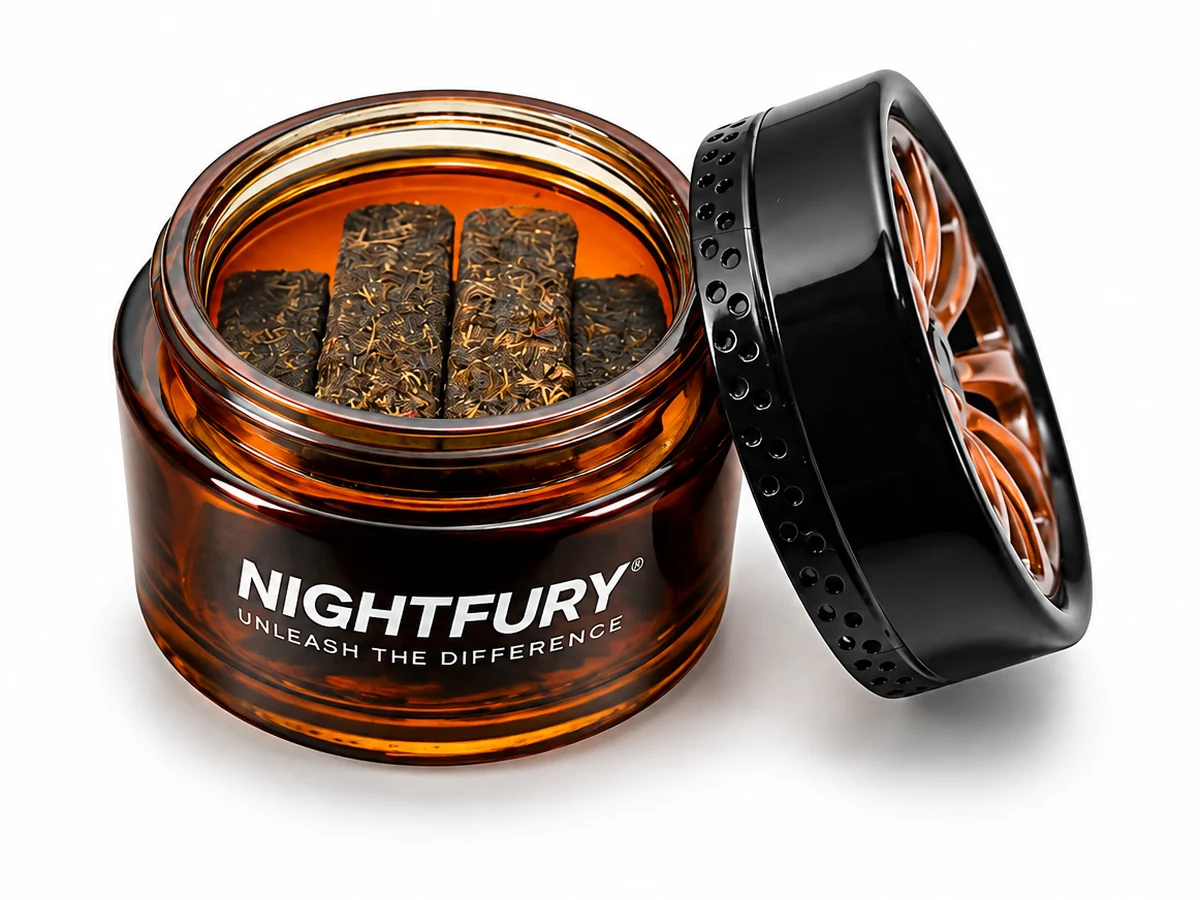
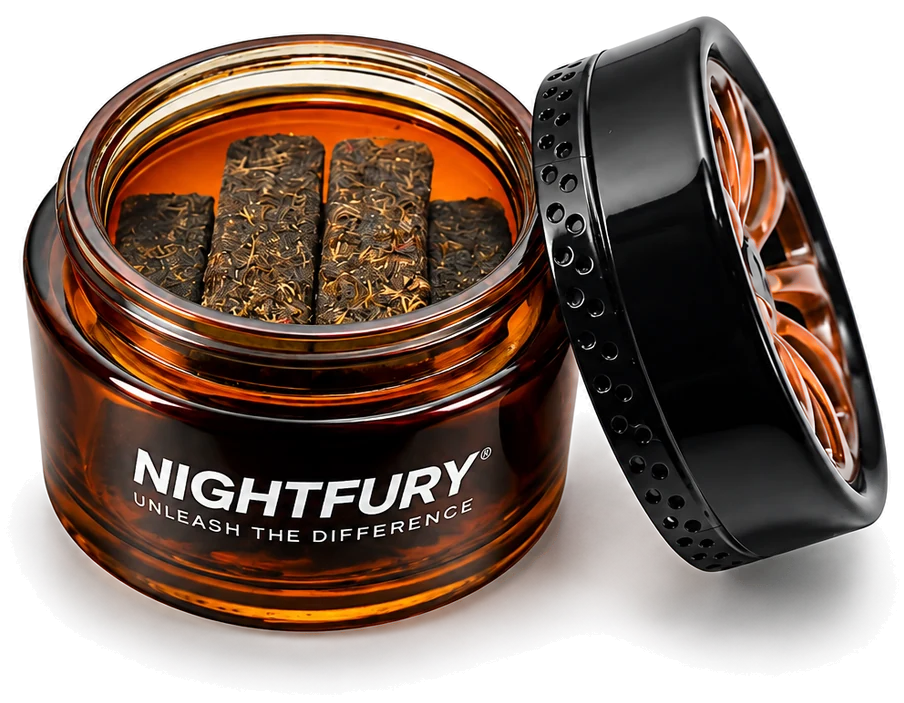
Core stage: transparent cutouts, large and flush right
Product shots cut out of the white studio background (white connected to
the edges becomes transparent, the floor shadow stays as a soft shadow, the
lettering on the jar stays solid). No panel or halo; the image sits flush
right so the stage mirrors the text column.

diff --git a/src/components/StageVisual.tsx b/src/components/StageVisual.tsx
@@ -109,37 +109,31 @@ function Illustration({ item }: Readonly<{ item: StageItem }>) {
 }
 
 /**
- * Product photo as a hero panel: the white studio background becomes a white
- * card with a navy border and a hard shadow in the scent colour, so the jar
- * stands off the tinted stage instead of blending into it. Each swap remounts
- * the image and fades it in (keyed by src).
+ * Transparent product cutout, shown large like a hero image. It sits flush
+ * right in its column so the stage mirrors the text on the left. Each swap
+ * remounts the image and fades it in (keyed by src).
  */
-function PhotoPanel({ item, compact }: Readonly<{ item: StageItem; compact?: boolean }>) {
+function Cutout({ item, compact }: Readonly<{ item: StageItem; compact?: boolean }>) {
   return (
-    <figure
-      className={`nf-tint relative m-0 w-full overflow-hidden rounded-[3px] border-2 border-navy bg-white ${compact ? "" : "max-w-[640px]"}`}
-      style={{ boxShadow: `${compact ? 6 : 10}px ${compact ? 6 : 10}px 0 ${item.colors.liquid}` }}
-    >
-      {/* eslint-disable-next-line @next/next/no-img-element -- pre-sized WebP that swaps on scroll; a plain img keeps the crossfade simple */}
-      <img
-        key={item.photo}
-        src={item.photo}
-        alt=""
-        width={1200}
-        height={900}
-        decoding="async"
-        className="nf-photo-in block aspect-[4/3] h-auto w-full object-contain"
-      />
-    </figure>
+    // eslint-disable-next-line @next/next/no-img-element -- pre-sized WebP that swaps on scroll; a plain img keeps the crossfade simple
+    <img
+      key={item.photo}
+      src={item.photo}
+      alt=""
+      width={900}
+      height={700}
+      decoding="async"
+      className={`nf-photo-in block h-auto w-auto max-w-full object-contain ${compact ? "max-h-[240px]" : "max-h-[min(560px,calc(var(--stage-h)-140px))]"}`}
+    />
   );
 }
 
-/** Product visual: a photo panel when one exists, otherwise halo, illustration and floor shadow. */
+/** Product visual: a cutout photo when one exists, otherwise halo, illustration and floor shadow. */
 export default function StageVisual({ item, compact }: Readonly<{ item: StageItem; compact?: boolean }>) {
   if (item.photo) {
     return (
-      <div aria-hidden="true" className={`relative flex min-w-0 items-center justify-center ${compact ? "pt-1 pr-2 pb-3" : ""}`}>
-        <PhotoPanel item={item} compact={compact} />
+      <div aria-hidden="true" className={`relative flex min-w-0 items-center ${compact ? "justify-center py-2" : "justify-end"}`}>
+        <Cutout item={item} compact={compact} />
       </div>
     );
   }
